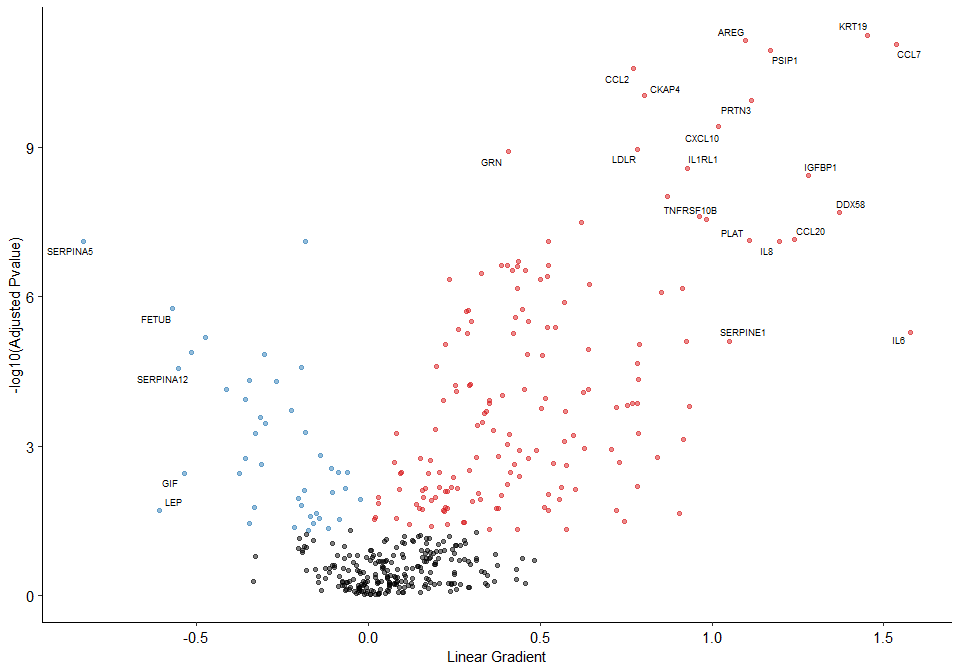
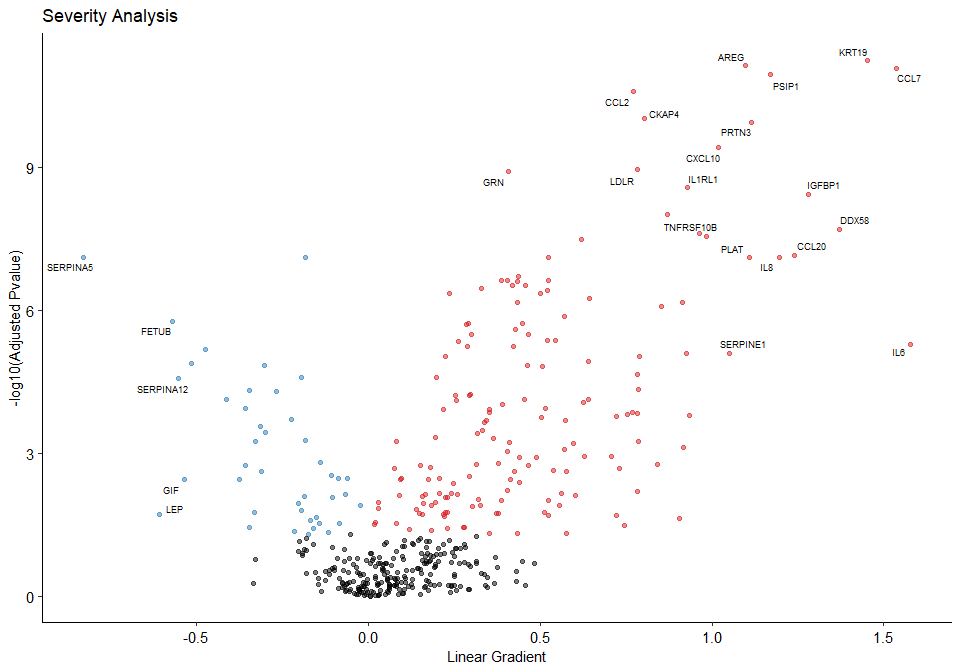
Add severity volcano title

diff --git a/scripts/example_script.md b/scripts/example_script.md
@@ -1,7 +1,7 @@
 Example Analyses
 ================
 Jack Gisby
-2020-11-03
+2020-11-04
 
   - [Modified OlinkAnalyze Package](#modified-olinkanalyze-package)
   - [The Dataset](#the-dataset)
@@ -170,7 +170,7 @@ plasma_severity <- simple_mixed_de(
     logp_label = 8.5,
     variable="WHO_Severity_Contemporaneous",
     plot_xlab = "Linear Gradient", 
-    plot_title=waiver(),
+    plot_title="Severity Analysis",
     random="Individual_ID",
     covariates = c("Sex", "Age", "Ethnicity")
 )
@@ -278,7 +278,7 @@ summary(joint_model(plasma_full[plasma_full$Case_Control == "POSITIVE",], "AZU1"
     ## adapt: 3000 
     ## burn-in: 3000 
     ## thinning: 10 
-    ## time: 0.6 min
+    ## time: 0.7 min
 
 # Random Forests
 
